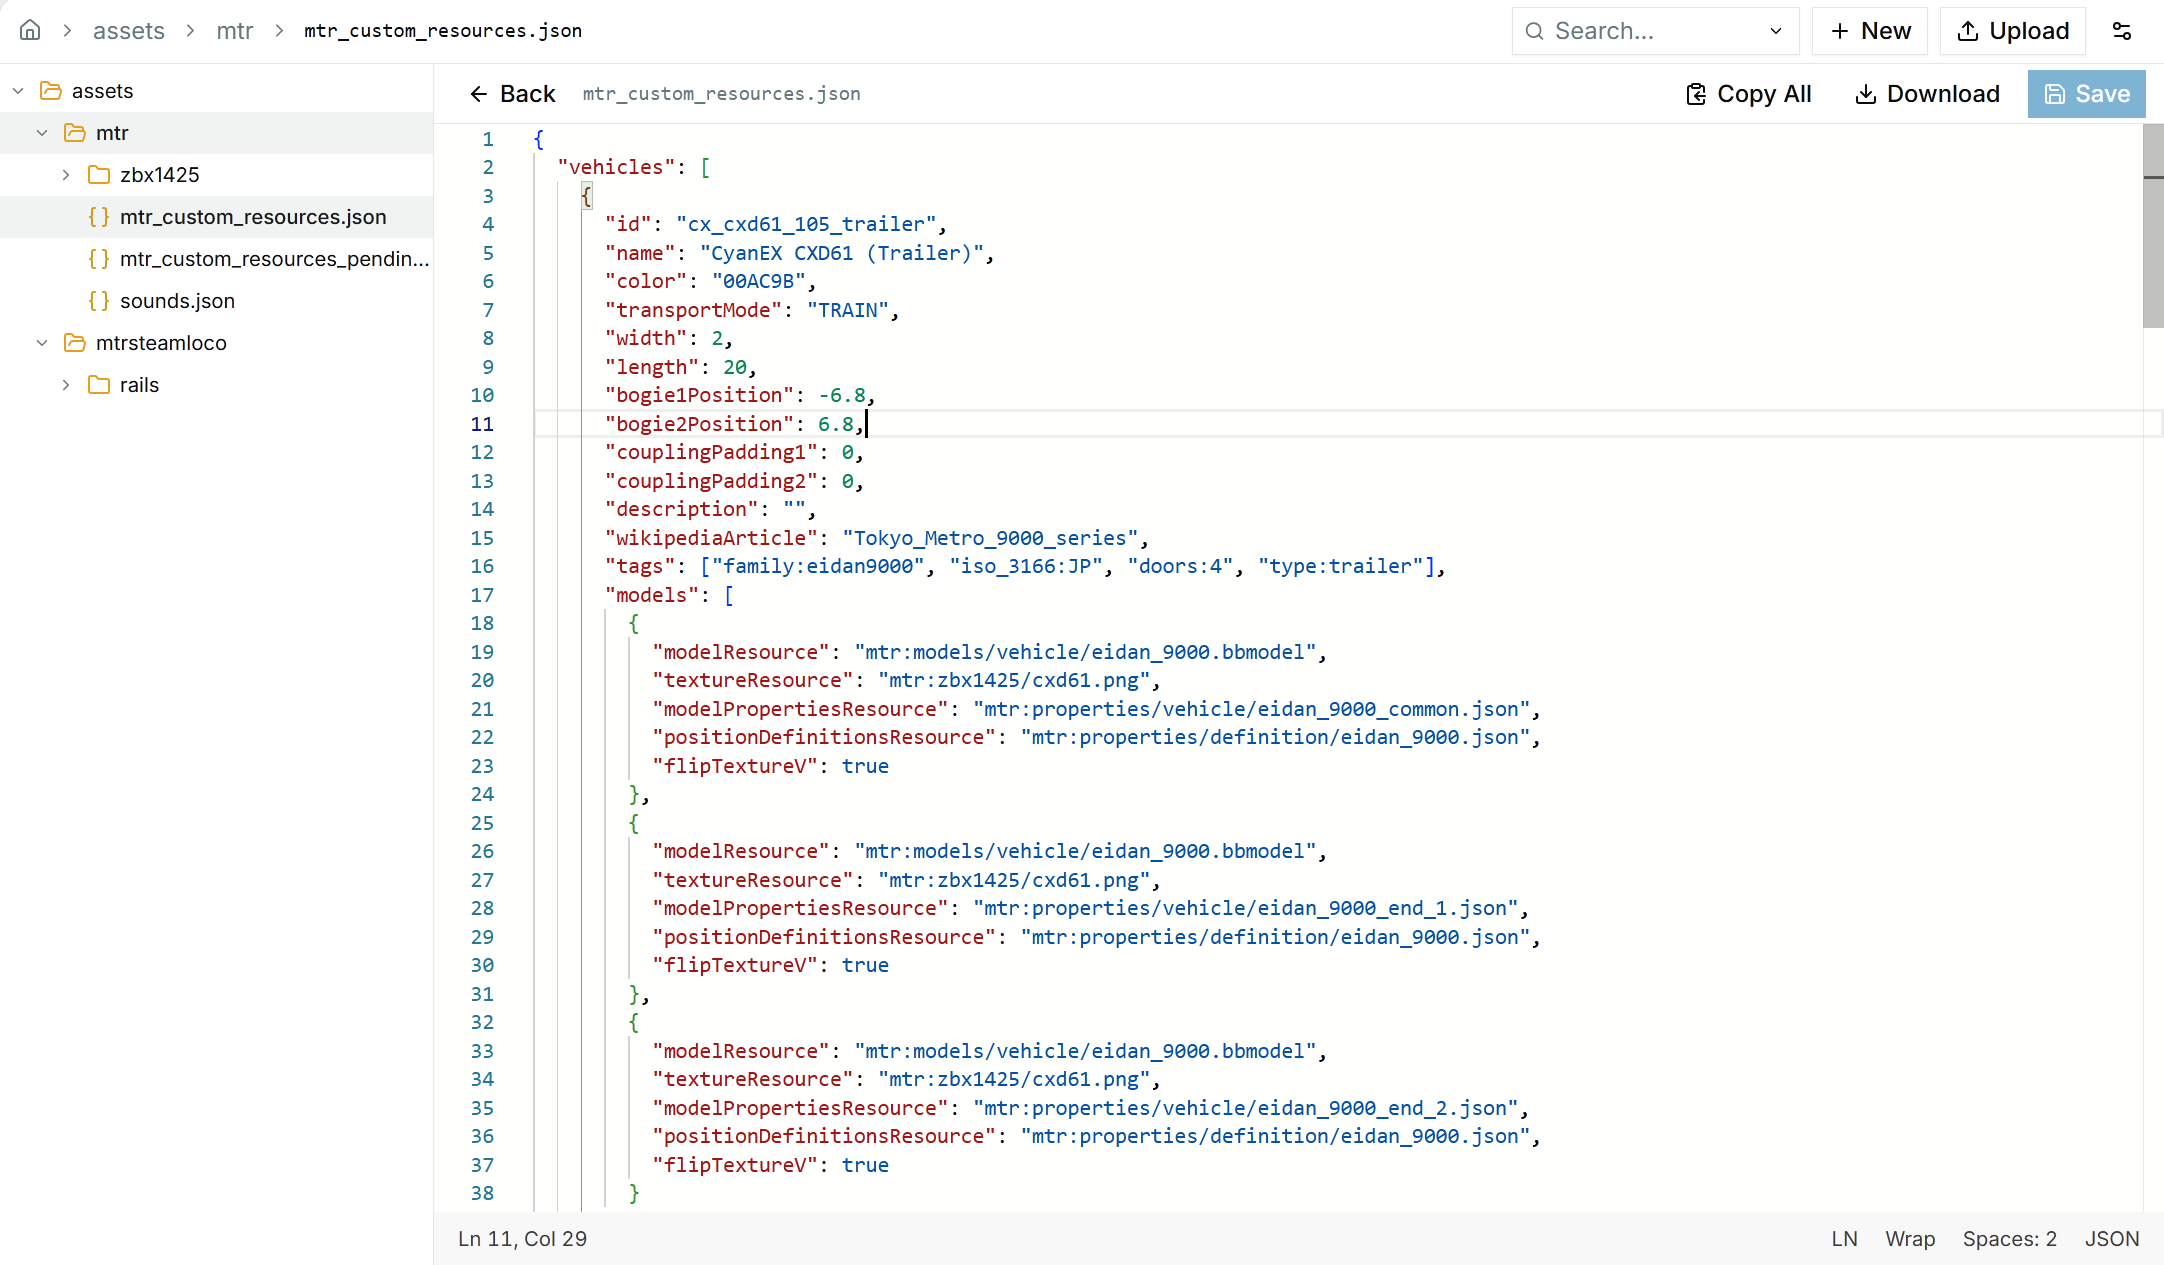
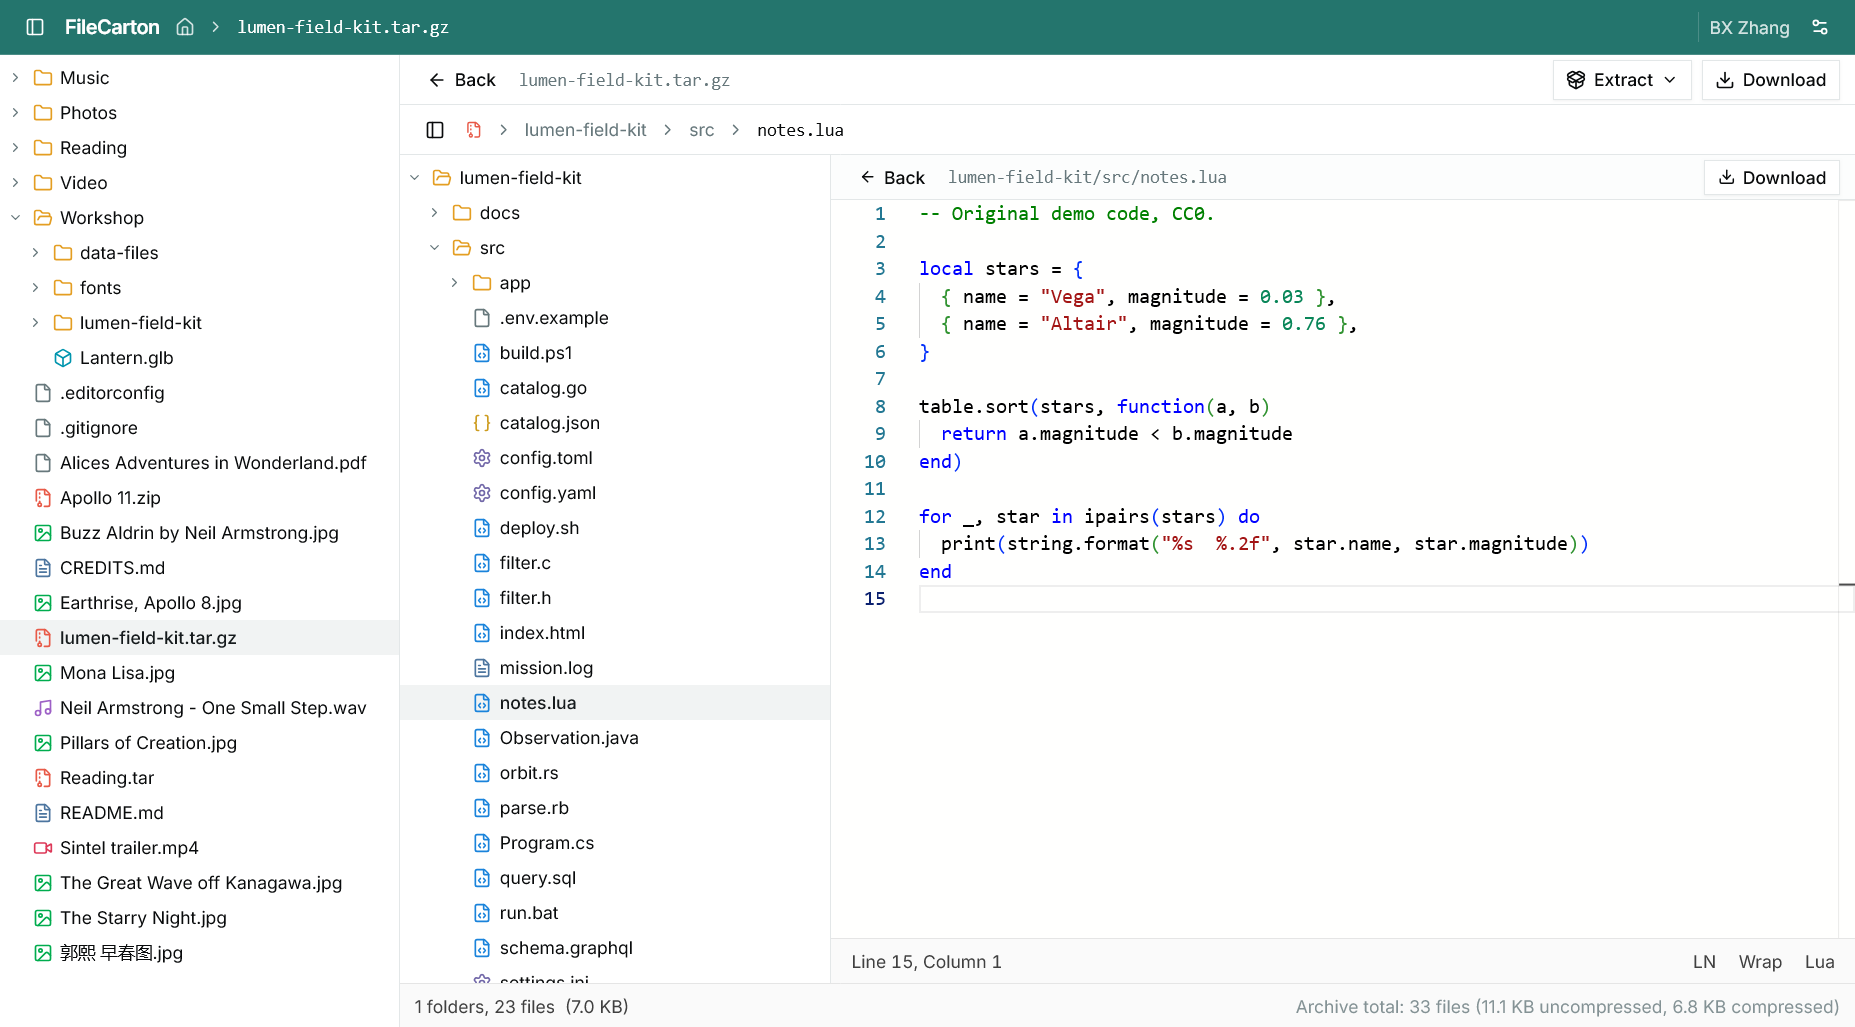
feat: new demo images

diff --git a/README.md b/README.md
@@ -7,6 +7,10 @@
 
 **FileCarton** is deeply inspired by the incredible work of [TinyFileManager (TFM)](https://github.com/prasathmani/tinyfilemanager), and *aims* to be a modern alternative to it.
 
+## 🎥 Demo
+
+- **https://fc-demo.zulubox.me**
+
 <p>
 <img src="images/fc-demo-1.png" width="640" alt="FileCarton Demo 1 showing the folder view" />
 <img src="images/fc-demo-2.png" width="640" alt="FileCarton Demo 2 showing the editor" />
@@ -17,9 +21,9 @@
 ## ✨ Why FileCarton?
 
 *   🚀 **SPA Experience**: By packing a decoupled frontend and backend architecture into a single file, FileCarton has a snappy user experience without page reloads.
-*   🧩 **Built to Embed**: Easily embed and integrate FileCarton into your existing logic or custom dashboards with minimal configuration.
-*   🛠 **Effortless Deployment**: Simple to set up and highly configurable.
+*   🧩 **Built to Embed**: Easily embed and integrate FileCarton into your existing logic or custom dashboards. Simple to set up and highly configurable.
 *   💅 **Sleek & Modern UI**: A clean interface with careful thought to make common operations intuitive.
+*   📱 **Mobile-friendly**: The interface adapts to phones and tablets with a touch-optimized layout.
 *   📝 **Monaco Editor Integration**: Features the Monaco Editor (the one behind VS Code) for a better code and text editing experience in your browser.
 *   🔒 **Built-in Auth**: Authentication support out of the box with customizable implementations.
 *   ⚖ **MIT Licensed**: You can freely embed it into your projects.
